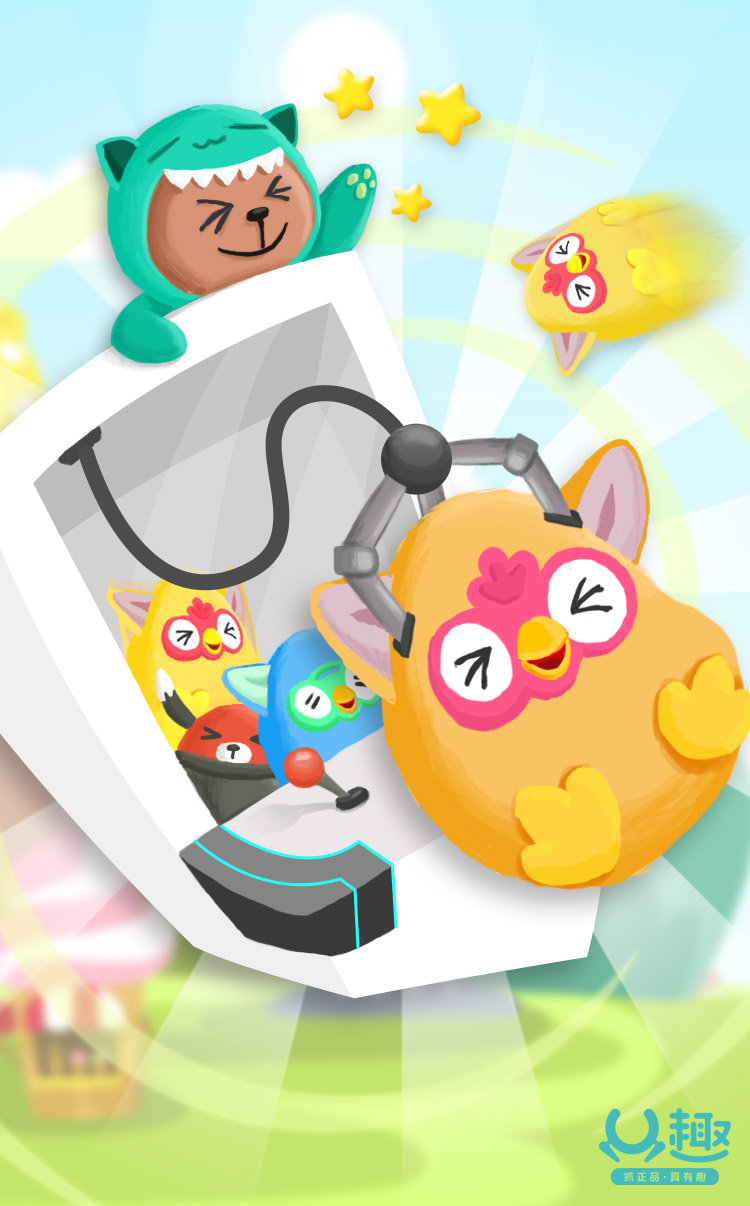
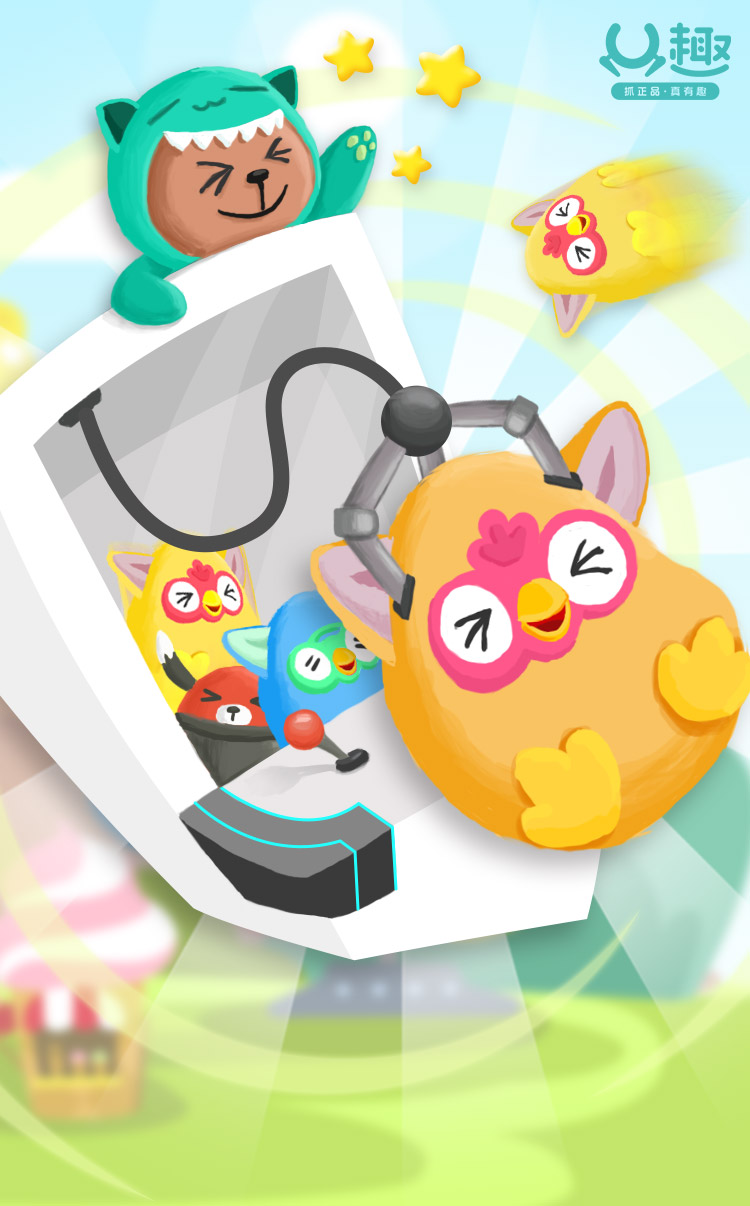
图片替换

diff --git a/static/js/web.min.js b/static/js/web.min.js
@@ -86,11 +86,11 @@ function Games() {
         window.xuanze  = b ;
         
         if (a.dollSerial = b, c.length) {
-            var d = $(c).eq(0).clone().addClass("doll-rise");
-            $(c).addClass("v-hidden"),
-            $("#machine-clip").append(d)
+            // var d = $(c).eq(0).clone().addClass("doll-rise");
+            var d = $(c).eq(0).addClass("doll-rise");
+            $(c).addClass("v-hidden")
+            // $("#machine-clip").append(d)
         } else this.$clip && this.$clip.removeClass("catch")
-
 
     },
 
@@ -98,8 +98,10 @@ function Games() {
         var d = $("#machine-clip").find(".doll-item");
         this.$clip && this.$clip.removeClass("catch"),
         move(d[0]).y(b).duration(c).ease("linear").end(),
-        a.mcFloorOpen(),
-        a.packetFly(b / 2, c)
+        $(d).css('display','none');
+        $(d).css('transformY','0px');
+        a.mcFloorOpen()
+        // a.packetFly(b / 2, c)
     },
 
     this.offDoll = function(b, c) {
@@ -108,7 +110,7 @@ function Games() {
         e = $("#machine-clip").find(".doll-item");
         e.length ? setTimeout(function() {
             var c = window.record;
-            c.dolls && c.dolls[parseInt(a.dollSerial, 10)].hit ? a.hit = !0 : (a.doOffDoll(b, d), a.hit = !1)
+           a.doOffDoll(b, d);
         }.bind(this), c * (.5 + .3 * Math.random())) : a.packetFly(b / 2, d, 600, !0)
     },
     this.mcFloorOpen = function() {
@@ -205,6 +207,7 @@ function ClampDoll() {  /*钩子*/
 
     this.rising = function() {  /*钩子触碰到*/
         var a = "translate(" + m+ "px,"+0+"px)";
+        $(".doll-item-single").removeAttr("style").addClass('doll-rise');
         move(this.clip).set("transform", a).duration(this.setTime.rising).ease("linear").end()
     },
 

diff --git a/static/css/app.min.css b/static/css/app.min.css
@@ -13265,7 +13265,7 @@ ul {
 	position: relative;
 	top: 65%;
 	left: -20%;
-	display: block;
+	display: block !important;
 	z-index: 20
 }
 
@@ -13406,9 +13406,9 @@ ul {
 .doll-img_name__goods {
 	right: 0;
 	left: 0;
-	bottom: -.07rem;
-	height: .94rem;
-	/*background: url(../img/rand-packet.png) 50% 70%/50% no-repeat;*/
+	/*bottom: -.07rem;*/
+	height: 1.2rem;
+	background: url(../img/ingame_toy.png) 50% 70% no-repeat;
 	-webkit-background-size: 50%
 }
 

diff --git a/static/js/move.min.js b/static/js/move.min.js
@@ -438,7 +438,7 @@
             this.setProperty("-webkit-" + prop, val);
             this.setProperty("-moz-" + prop, val);
             this.setProperty("-ms-" + prop, val);
-            this.setProperty("-o-" + prop, val);
+            this.setProperty("-o-" + prop, val); 
             return this
         };
         Move.prototype.set = function(prop, val) {
